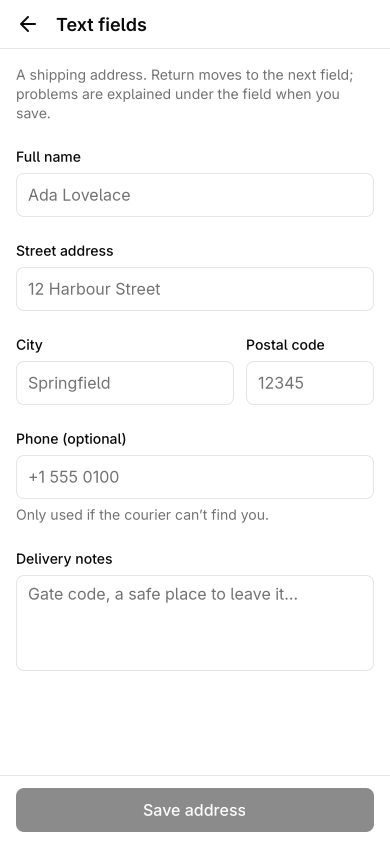
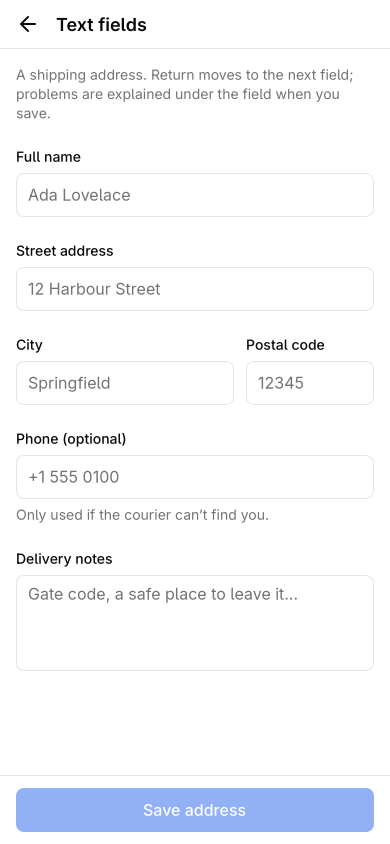
Linux: TextInput screenshots with the example apps' accent

Changed region(s): [[0.0308, 0.9242, 0.9846, 0.9858]]

diff --git a/platforms/linux/tests/input.rs b/platforms/linux/tests/input.rs
@@ -6,6 +6,8 @@ mod support;
 
 use std::process::ExitCode;
 
+use native_shell_gtk::InstanceOptions;
+
 use support::*;
 
 fn main() -> ExitCode {
@@ -213,7 +215,9 @@ fn shoot(f: &Fixture, name: &str) {
 
 /// The components example's shipping address form, as a user fills it in.
 fn address_form() {
-    let f = Fixture::open_dir("../../examples/components");
+    // The accent the iOS and Android example apps give the examples.
+    let dir = std::path::Path::new(env!("CARGO_MANIFEST_DIR")).join("../../examples/components");
+    let f = Fixture::start_with(&example_runtime(), InstanceOptions::default(), |i| i.load_dir(&dir));
     // Without animations the page shows at once, never mid-transition.
     if let Some(settings) = gtk::Settings::default() {
         settings.set_gtk_enable_animations(false);
